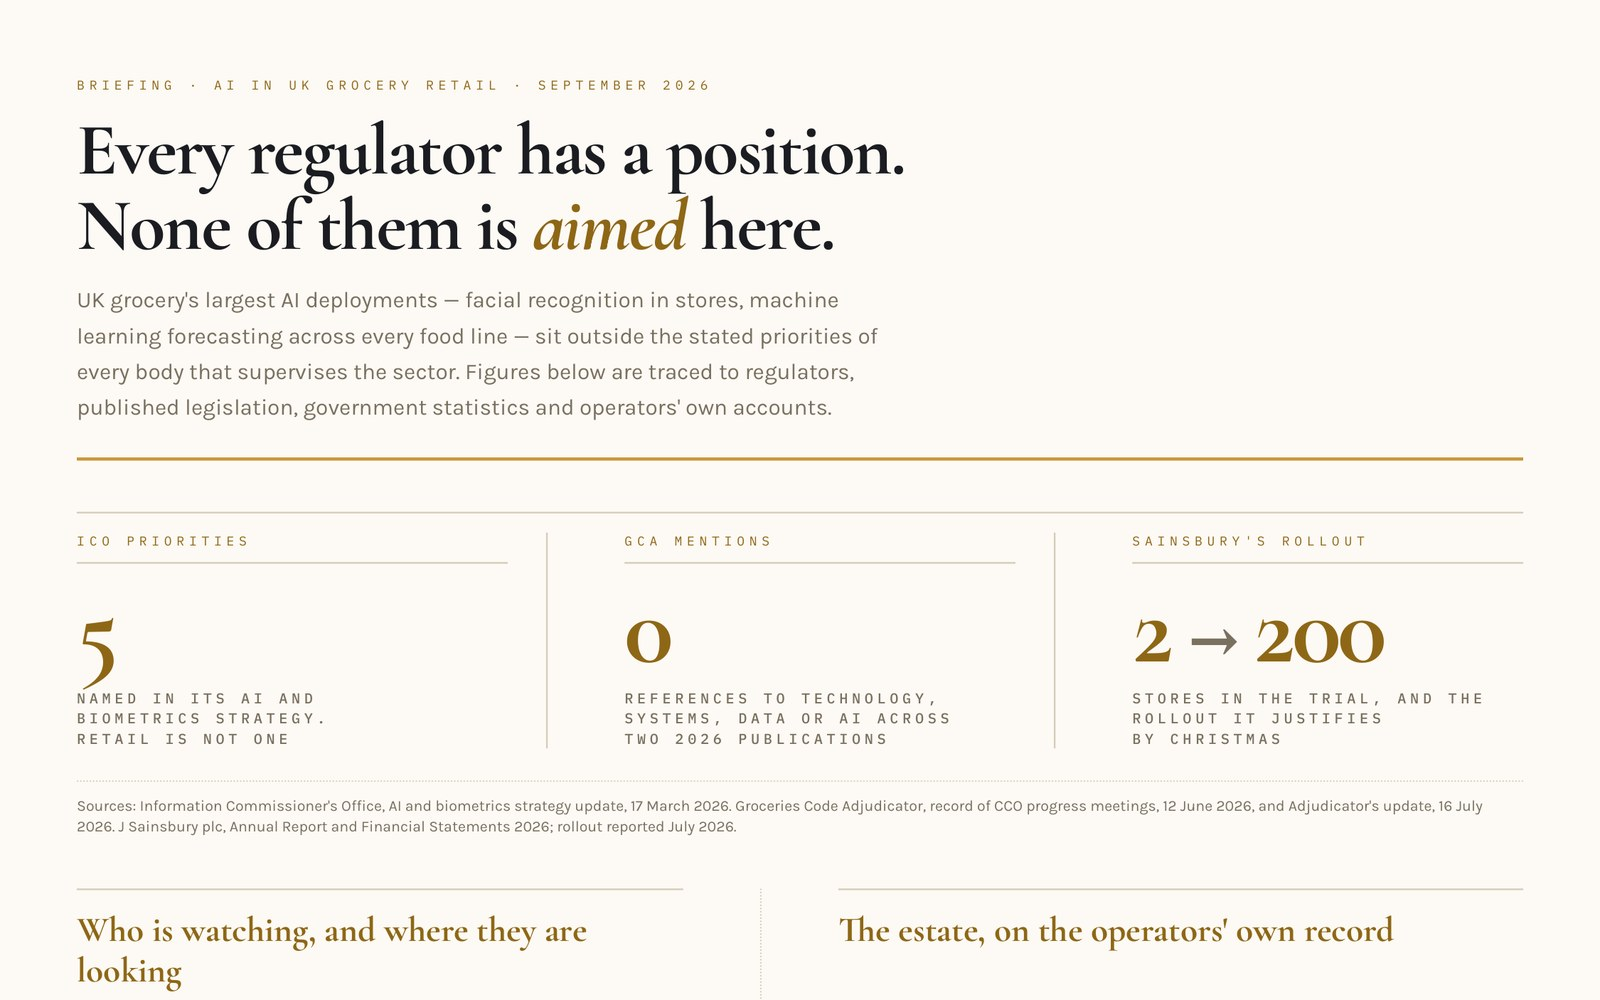
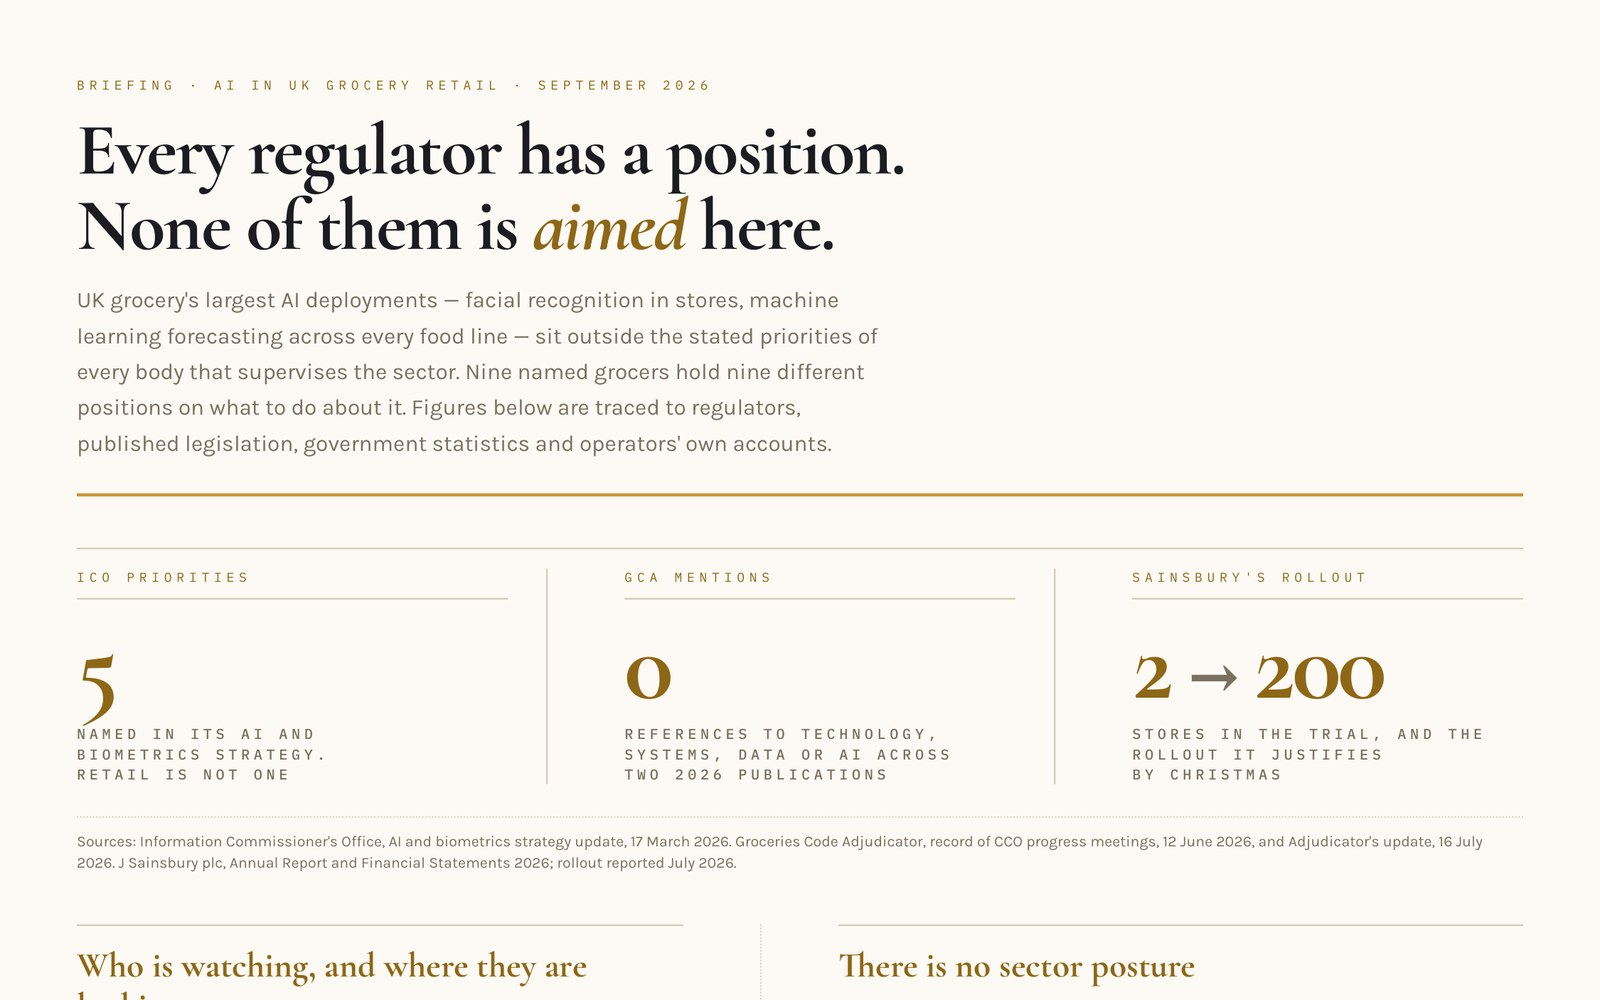
Rebuild the grocery retail poster on the nine-grocer evidence
Brings the poster into line with the document and deck, which were
corrected and widened in be3124e. Two modules replaced.

"The estate, on the operators' own record" becomes "There is no sector
posture" — Sainsbury's use-case count and named-officer trial results,
Tesco's seven million personalised coupons, Morrisons' £940m on the
chief executive's own account, Waitrose's parent listing AI as an
emerging risk it monitors, and Lidl's parent building an EUR11bn data
centre and selling the compute.

"What it costs when the record fails" becomes "Where the money actually
went" — £1.22bn separating Asda's IT estate from Walmart alongside the
Co-op's £285m revenue impact. Neither is an AI investment, and both are
what an AI business case in this sector competes with.

Regenerates the card, in-page figure and OG image from the new render,
and updates the figure's alt text and height.

Claude-Session: https://claude.ai/code/session_01W9TnDvRbuk91b3YZymBeWN

diff --git a/src/pages/briefing-ai-uk-grocery-retail.html b/src/pages/briefing-ai-uk-grocery-retail.html
@@ -143,7 +143,7 @@
       <figure class="detail-figure">
         <picture>
           <source srcset="/images/briefings/grocery-retail-full-briefing.webp" type="image/webp">
-          <img src="/images/briefings/grocery-retail-full-briefing.jpg" alt="Every regulator has a position. None of them is aimed here — five ICO priorities with retail not among them, zero mentions of technology, systems, data or AI across two 2026 Groceries Code Adjudicator publications, Sainsbury's facial recognition going from two stores to around two hundred, 18% of suppliers reporting significant costs from inaccurate retailer forecasting, the poorest fifth of households spending 15.2% of expenditure on food against 7.9% for the richest, and £285m and £131m of audited cyber incident costs at the Co-op and M&amp;S" width="680" height="1339" loading="lazy" decoding="async">
+          <img src="/images/briefings/grocery-retail-full-briefing.jpg" alt="Every regulator has a position. None of them is aimed here — five ICO priorities with retail not among them, zero mentions of technology, systems, data or AI across two 2026 Groceries Code Adjudicator publications, Sainsbury's facial recognition going from two stores to around two hundred, 18% of suppliers reporting significant costs from inaccurate retailer forecasting, the poorest fifth of households spending 15.2% of expenditure on food against 7.9% for the richest, nine grocers holding nine different positions on AI, and £1.22bn spent separating Asda's IT estate from Walmart" width="680" height="1355" loading="lazy" decoding="async">
         </picture>
         <figcaption>From the full briefing's regulatory and market data — sources listed in the document.</figcaption>
       </figure>
